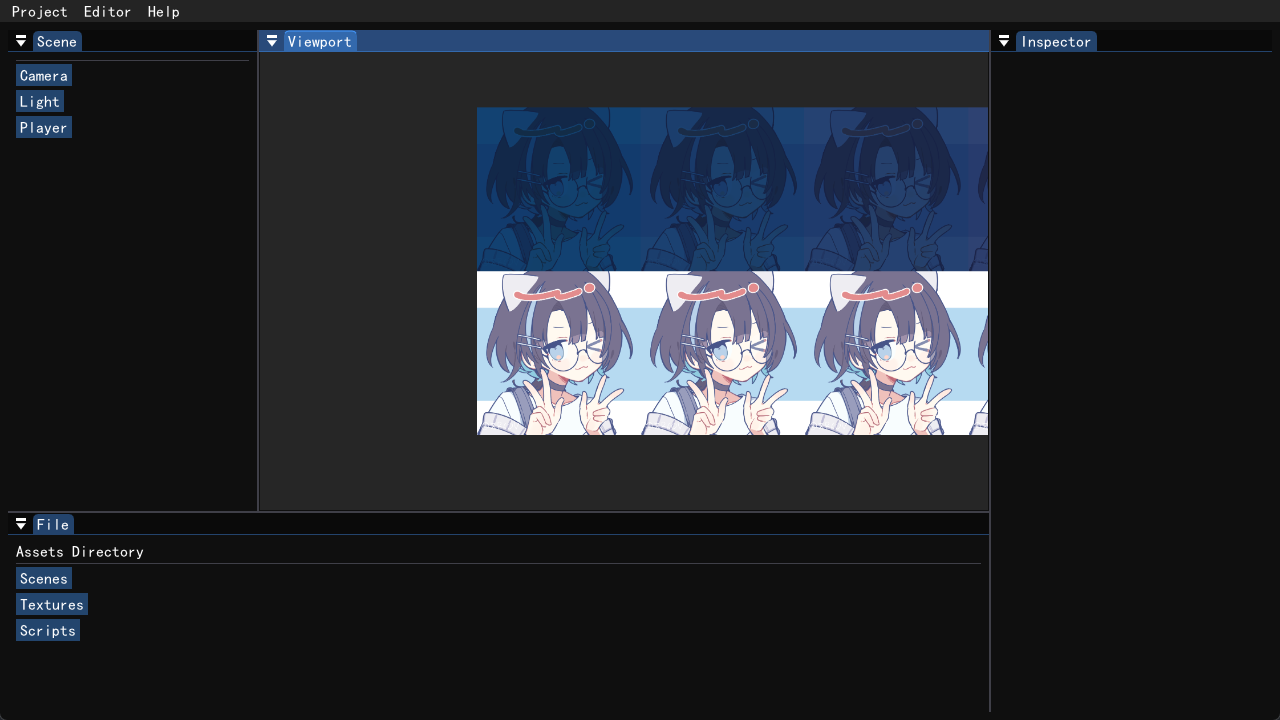
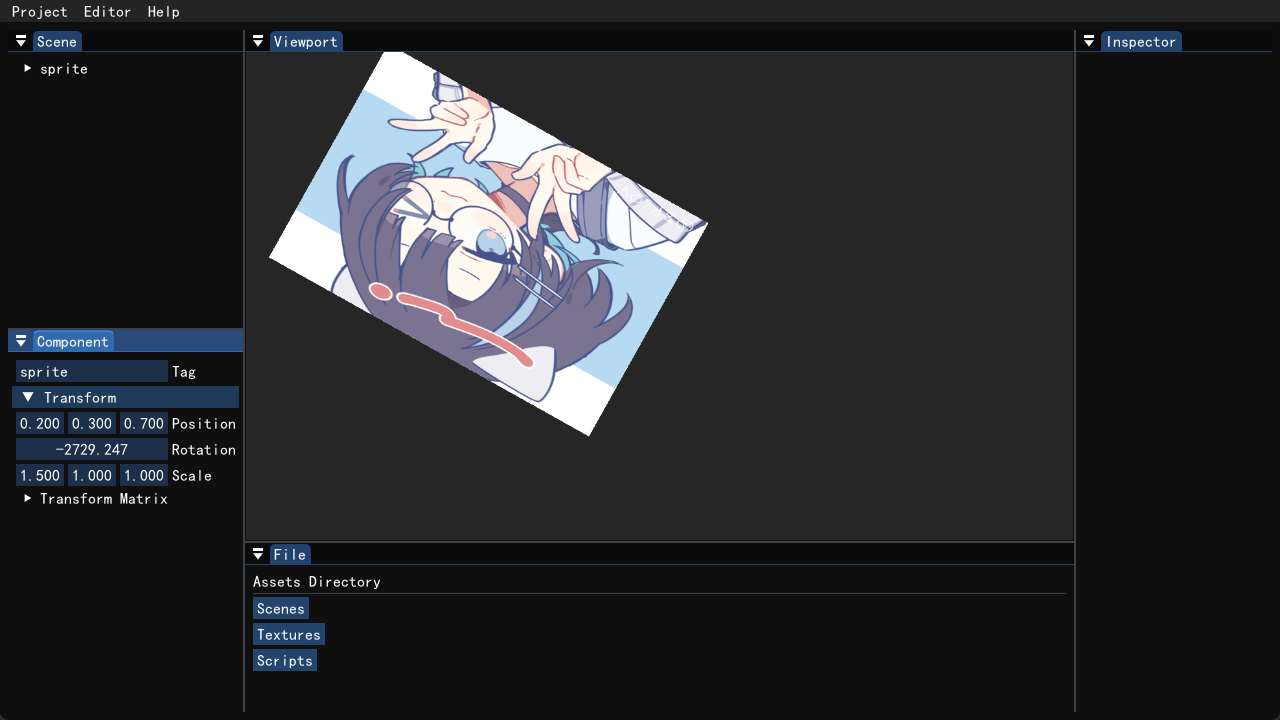
组件编辑窗口

diff --git a/DuaEngine/src/Dua/Scene/Entity.h b/DuaEngine/src/Dua/Scene/Entity.h
@@ -2,6 +2,7 @@
 
 #include "entt/entt.hpp"
 #include <cassert>
+#include <unordered_map>
 
 namespace Dua {
 
@@ -10,6 +11,9 @@ namespace Dua {
     class Entity
     {
     public:
+
+        inline static std::unordered_map<entt::entity, Ref<Entity>> EntityMap;
+
         Entity(entt::entity handle, Scene* scene)
             : m_EntityHandle(handle), m_Scene(scene)
         {
@@ -19,6 +23,12 @@ namespace Dua {
         }
 
         Entity(const Entity& other) = default;
+
+        Entity(const Ref<Entity>& other)
+        {
+            m_EntityHandle = other->m_EntityHandle;
+            m_Scene = other->m_Scene;
+        }
 
         template<typename T, typename... Args>
         T& AddComponent(Args&&... args)
@@ -66,12 +76,7 @@ namespace Dua {
             m_Scene->m_Registry.template remove<T>(m_EntityHandle);
         }
 
-        operator bool() const
-        {
-            return m_EntityHandle != entt::null && m_Scene != nullptr;
-        }
-
-        operator uint32_t() const
+        uint32_t GetID() const
         {
             return (uint32_t)m_EntityHandle;
         }
@@ -95,6 +100,8 @@ namespace Dua {
     private:
         entt::entity m_EntityHandle{ entt::null };
         Scene* m_Scene = nullptr;
+
+        friend class Scene;
     };
 
 }

diff --git a/DuaEngine/src/Dua/Scene/Components.h b/DuaEngine/src/Dua/Scene/Components.h
@@ -61,30 +61,9 @@ namespace Dua {
 		TransformComponent(const TransformComponent&) = default;
 		TransformComponent(const glm::mat4& transform) : Transform(transform) {}
 
-		void SetPosition(const glm::vec3& pos)
-		{
-			if (Position != pos)
-			{
-				Position = pos;
-				Dirty = true;
-			}
-		}
-		void SetRotation(float radians)
-		{
-			if (Rotation != radians)
-			{
-				Rotation = radians;
-				Dirty = true;
-			}
-		}
-		void SetScale(const glm::vec3& scale)
-		{
-			if (Scale != scale)
-			{
-				Scale = scale;
-				Dirty = true;
-			}
-		}
+		void SetPosition(const glm::vec3& pos) { if (Position != pos) { Position = pos; Dirty = true; } }
+		void SetRotation(float radians) { if (Rotation != radians) { Rotation = radians; Dirty = true; } }
+		void SetScale(const glm::vec3& scale) { if (Scale != scale) { Scale = scale; Dirty = true; } }
 	};
 
 	struct SpriteComponent

diff --git a/DuaEngine/src/Dua/Scene/Scene.cpp b/DuaEngine/src/Dua/Scene/Scene.cpp
@@ -20,11 +20,12 @@ namespace Dua {
 
 	}
 
-	Entity Scene::CreateEntity(const std::string name)
+	Ref<Entity> Scene::CreateEntity(const std::string name)
 	{
-		Entity entity(m_Registry.create(), this);
-		entity.AddComponent<TransformComponent>();
-		auto& tagc = entity.AddComponent<TagComponent>();
+		Ref<Entity> entity = CreateRef<Entity>(m_Registry.create(), this);
+		Entity::EntityMap.emplace(entity->m_EntityHandle, entity);
+		entity->AddComponent<TransformComponent>();
+		auto& tagc = entity->AddComponent<TagComponent>();
 		tagc.Tag = name;
 		return entity;
 	}

diff --git a/Editor/src/Panels/SceneHierarchyPanel.h b/Editor/src/Panels/SceneHierarchyPanel.h
@@ -1,9 +1,11 @@
 #pragma once
 
 #include "Dua/Core/Memory.h"
-#include "Dua/Scene/Scene.h"
 
 namespace Dua {
+
+	class Scene;
+	class Entity;
 
 	class SceneHierarchyPanel
 	{
@@ -14,12 +16,12 @@ namespace Dua {
 		void OnImGuiRender();
 
 	private:
-		void DrawEntityNode(Entity entity);
-		void DrawComponent(Entity entity);
+		void DrawEntityNode(Ref<Entity> entity);
+		void DrawComponent(Ref<Entity> entity);
 
 	private:
 		Ref<Scene> m_Context;
-		uint32_t m_SelectedEntityID;
+		Ref<Entity> m_SelectedEntity;
 		friend class Scene;
 	};
 

diff --git a/DuaEngine/src/Dua/Scene/Scene.h b/DuaEngine/src/Dua/Scene/Scene.h
@@ -14,14 +14,12 @@ namespace Dua {
 		Scene();
 		~Scene();
 
-		Entity CreateEntity(const std::string name = "");
+		Ref<Entity> CreateEntity(const std::string name = "");
 
 		void OnUpdate(Timestep ts);
 		void OnDestory();
 
-	private:
 		entt::registry m_Registry;
-
 		friend class Entity;
 		friend class SceneHierarchyPanel;
 	};

diff --git a/README.md b/README.md
@@ -12,7 +12,7 @@
 ## 🗓 里程
 可能写的比较糊
 - **（持续更新中。。。）** 🔨
-- **2025/04/14** 场景管理窗口初步
+- **2025/04/14** 场景管理窗口初步（还只有sprite和transform）
 - **2025/04/13** 加入了cpp原生脚本组件
 - **2025/04/12** 加入entt，加入了sprite组件
 - **2025/03/24** 2D渲染器，批处理渲染
